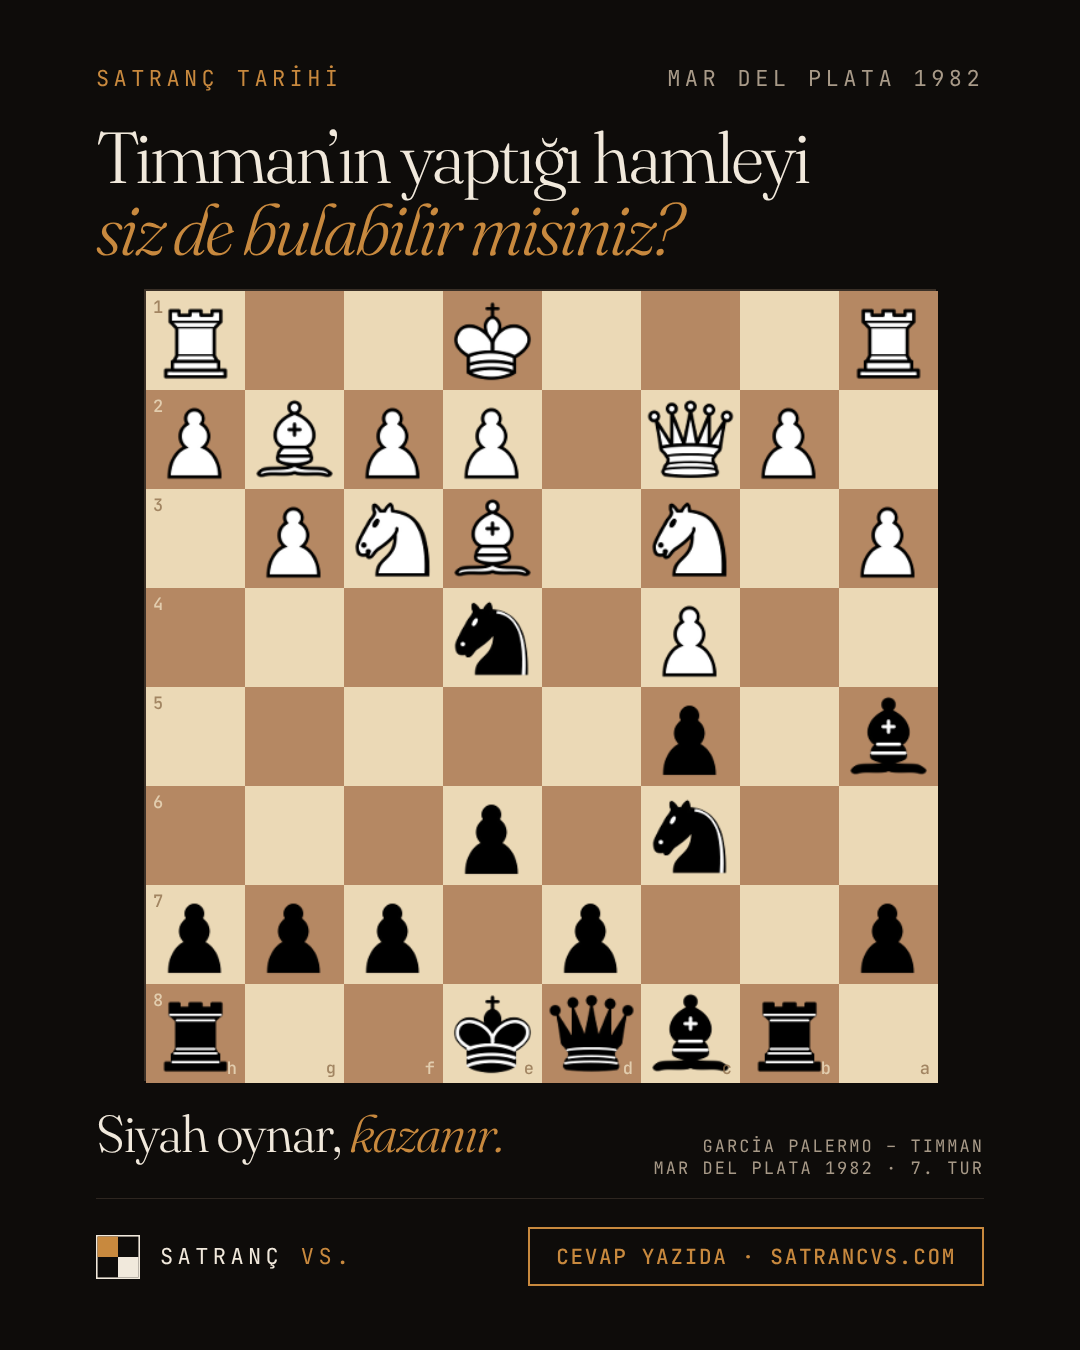
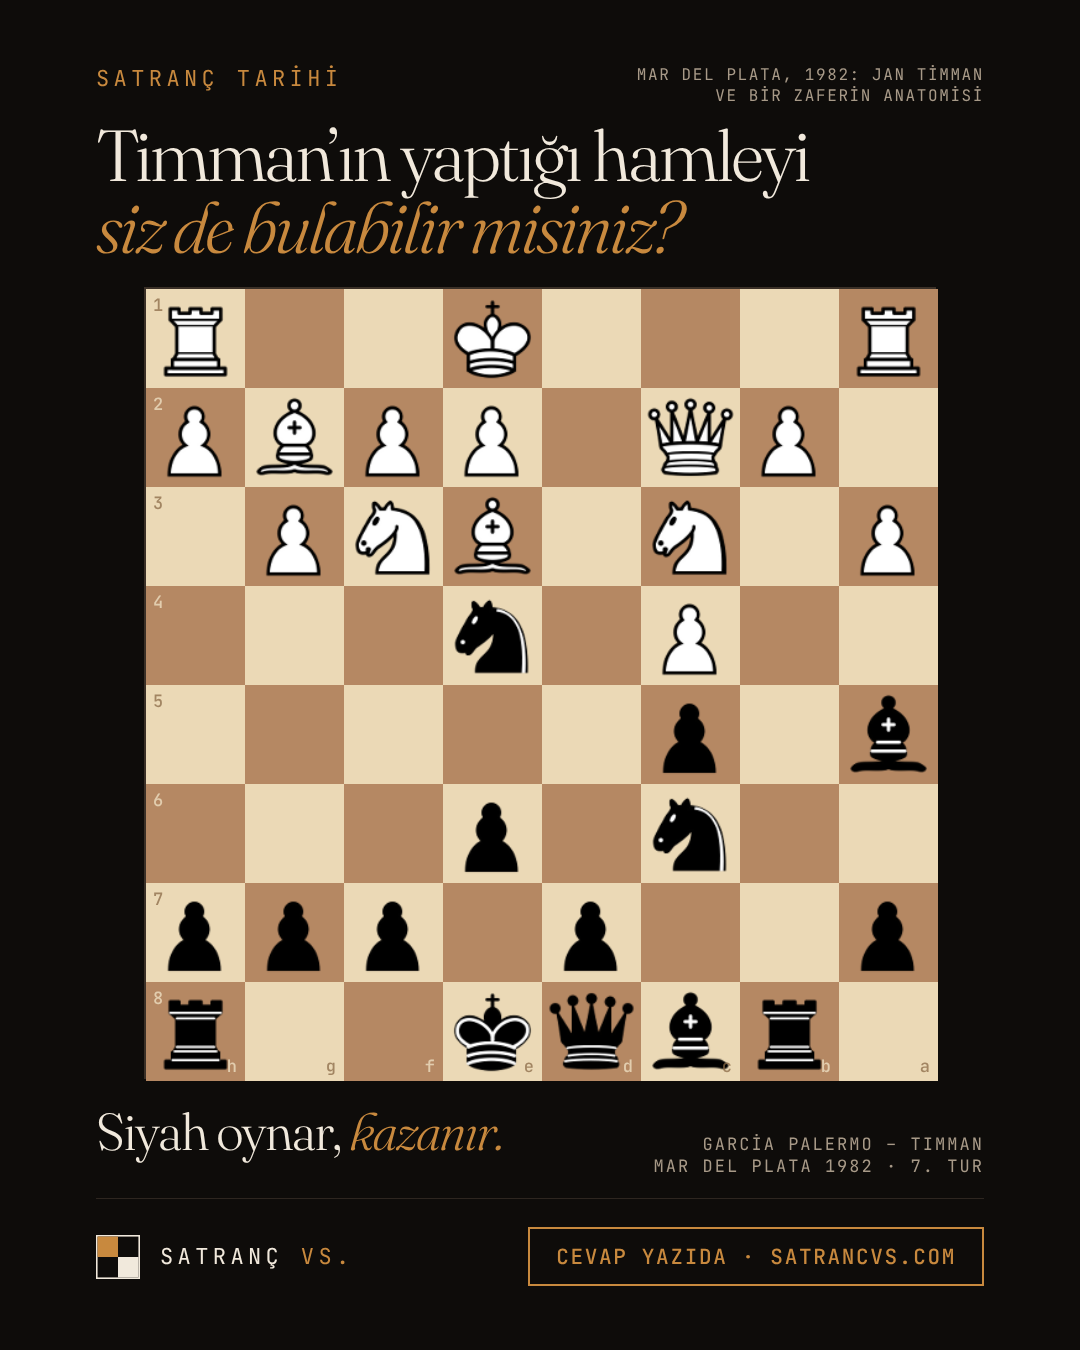
Timman Instagram post: show the article title in the top right
Claude-Session: https://claude.ai/code/session_01RDmroYRbj54oLNzSEoCtpT

diff --git a/social/instagram/03-timman/slides.html b/social/instagram/03-timman/slides.html
@@ -13,7 +13,7 @@ body { background:#000; }
 .mono { font-family:'JetBrains Mono',monospace; font-size:22px; letter-spacing:.2em; text-transform:uppercase; font-weight:400; }
 .accent { color:var(--accent); }
 .mute { color:var(--mute); }
-.top { display:flex; justify-content:space-between; align-items:center; }
+.top { display:flex; justify-content:space-between; align-items:flex-start; height:27px; }
 .disp { font-family:'Fraunces',serif; font-weight:300; letter-spacing:-.04em; line-height:1; font-variation-settings:'opsz' 72; font-size:72px; margin-top:28px; white-space:nowrap; }
 .disp em { font-style:italic; color:var(--accent); }
 .board { margin-top:24px; width:792px; height:792px; align-self:center; display:grid; grid-template-columns:repeat(8,99px); grid-template-rows:repeat(8,99px); border:2px solid #3a3027; position:relative; }
@@ -34,7 +34,7 @@ body { background:#000; }
 </head>
 <body>
 <section class="slide" id="s1">
-  <div class="top"><span class="mono accent">Satranç tarihi</span><span class="mono mute">Mar del Plata 1982</span></div>
+  <div class="top"><span class="mono accent">Satranç tarihi</span><span class="mono mute" style="font-size:16px;letter-spacing:.1em;text-align:right">Mar del Plata, 1982: Jan Timman<br>ve bir zaferin anatomisi</span></div>
   <div class="disp">Timman’ın yaptığı hamleyi<br><em>siz de bulabilir misiniz?</em></div>
   <div class="board" id="board" aria-label="Siyah oynar: konum"></div>
   <div class="cap">
